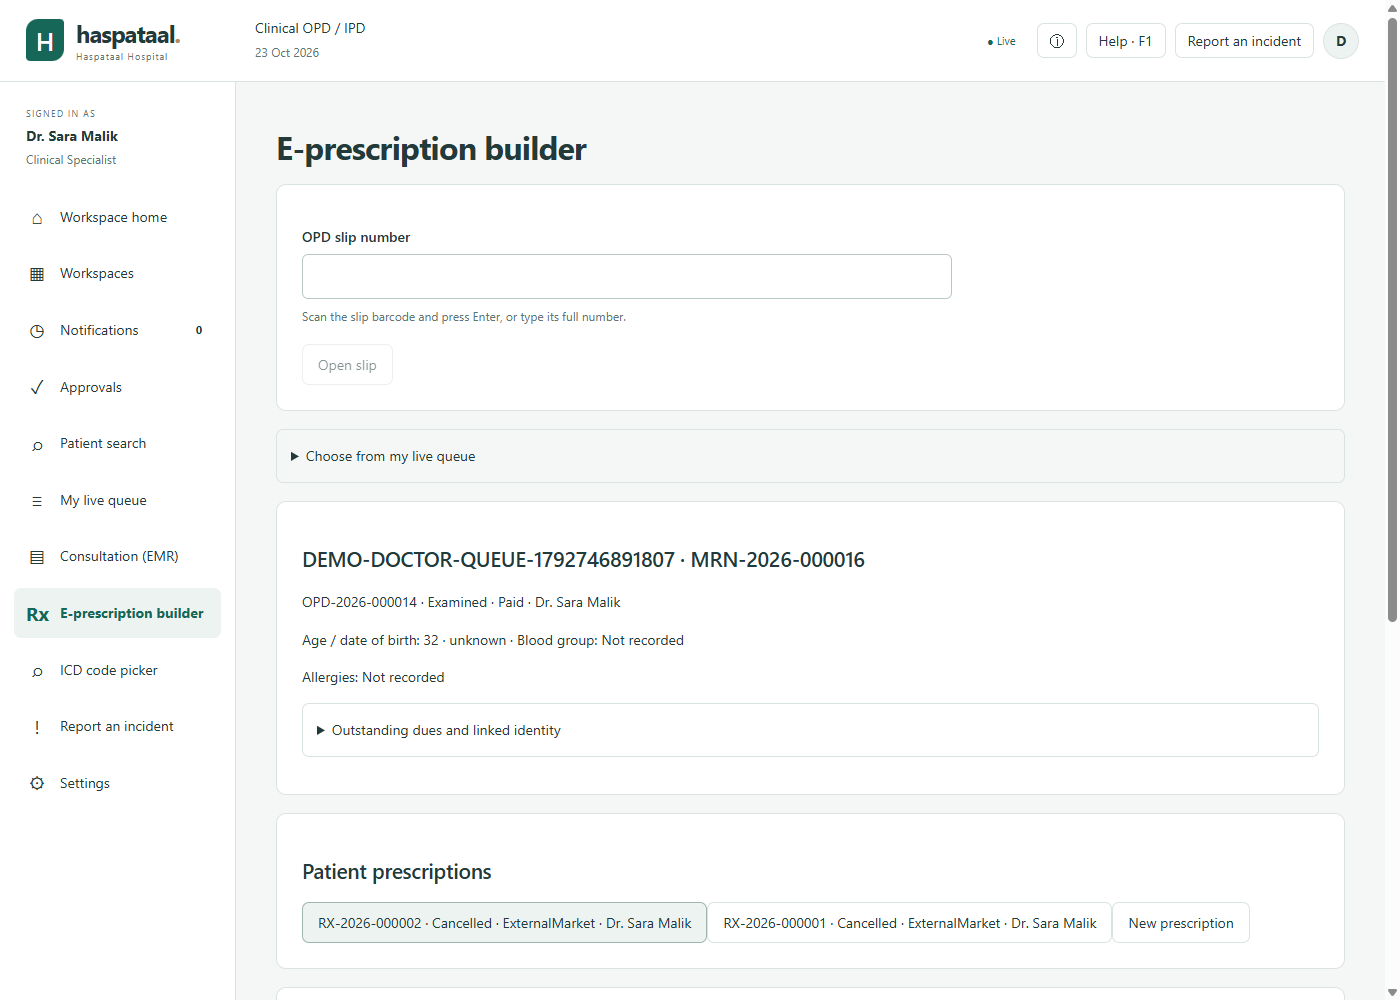
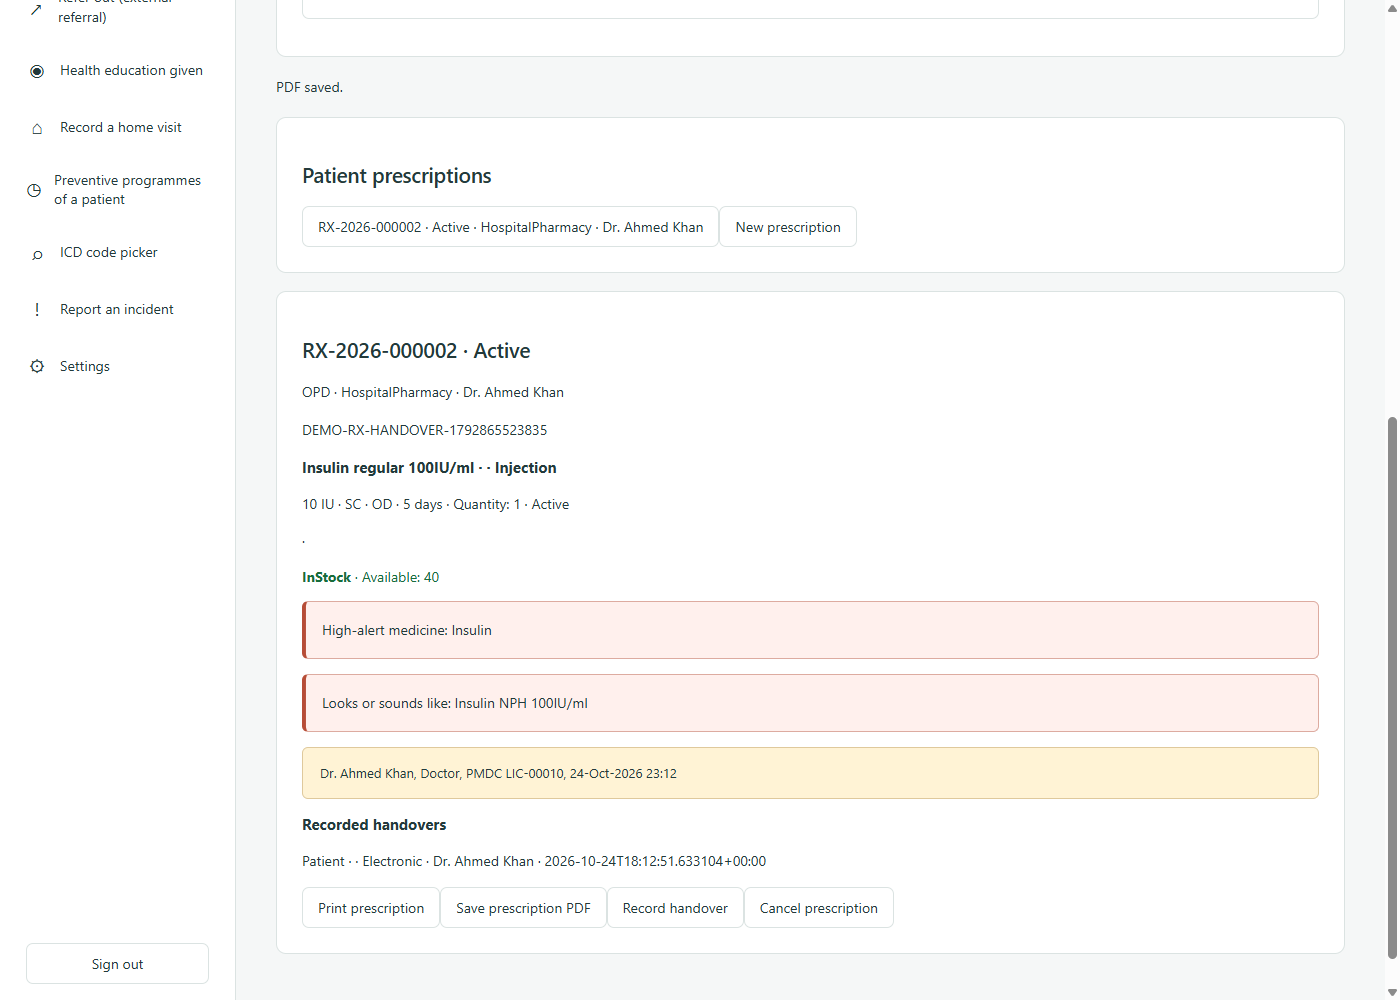
test: verify eprescription outpatient directions, safety warnings and actual handover

diff --git a/handoff.md b/handoff.md
@@ -61,3 +61,21 @@ Pending command node scripts/phase2-clinical-refund-check.mjs: one NEW refund of
 Clinicalrefund harness stopped on expectedordinaryAccountantGET403 (it assumed readablecan_decidefalse). Actualapproval5iselevated/Ownereligible; refund request confirmed once, no approval/cashout yet. Owneduser42/terminal10/shift10 retainedOpenvirtualfloat1500; zero-close correctlyrefused, ownedaccount/terminaldeactivated. No uncertainwrite. Correct harness to acceptactual403 denied-detail; --resume verifies/reactivatesownedfixtures and skips originalrefundrequest/open. Pending node scripts/phase2-clinical-refund-check.mjs --resume. Do not repeat request5.
 Clinicalrefund partialcheckpoint: patient13/ticket2 nowRefunded/clinicalLocked, originalrequest5 elevated(requiredpermissionapproval.refund_elevated.approve)/Ownerapproved; AccountantdetailGET403correct. Doctoractualevent237/verbatim Refund approved banner/disabledediting; actualnewnotePOSTCLINICAL_LOCKOUT/no note. CashbackpromptRefund2amount1500 PENDING, not uncertain; never repeat request5/approval. Ownshift10 opening1500 butbackendexpected0/by_type[]; initialcleanupcloseddeclared0 beforeapproval so currentcashbackcorrectlydisabled(noopenownshift). This is not a cashoutfailure/backendoutage; backendnonzerofloat contract needsclarification; preparingseparate report. User42/terminal10inactive, appsclosed, no commands. Evidence docs/clinical-refund-checkpoint-2026-10-24.json. Do not fabricatebalancingwrites or changeUIbalanceformula.
 Backendreport19CONFIRMEDsaved New/High ContractMismatch at17:44:53UTC: openingfloat1500 returns expected0 beforemovements, closed0/by_type[]; asks fixor explicitnetfloat/countingcontract (not asserting undocumentedformula). Actualoriginal201request5be534bbae31490b8f1d0d1102211867 andimmutableShift10read receipt4b7fae7699f04ea69ed2ec882bc11d86 in docs/nonzero-opening-float-evidence/report*.json. No UIbalanceworkaround, no realfunds, no repeatopen/close. Clinicalrefund partialtests ready; cashbackRefund2ticket2amount1500 remainsPENDING until properly reconciled open-drawer workflow afterbackendanswer. Never replay approvedrequest5.
+
+## Active continuation — E-Prescription handover and outpatient rules (24 October 2026 Antigravity, Asia/Karachi)
+Baseline clean 9f3aa9e. Build PASS (index-Cd4gDgdp.js) and 76 unit tests PASS. Proposals 109, 120, 121, 122, 123, 124, 125, 126 were pending. Backend issue #19 remains Open/New (awaiting backend clarification).
+
+Screen 24 (`eprescription`) Outpatient Handover check PASS:
+- `node scripts/eprescription-handover-check.mjs --resume` real DEV Electron check PASS.
+- Synthetic fixture: Patient 16 (`DEMO-AR-EMERGENCY-1792861877963`, MRN `MRN-2026-000012`), ticket 5 (`OPD-2026-000005`), Dr. Ahmed Khan (`demo.doctor`), linked Final consultation encounter 4.
+- Outpatient line validation (`rule:116b498e61`): dose, route, frequency, and whole-day duration enforced; missing duration blocked before POST.
+- High-Alert / LASA safety warnings (`rule:5a13c8d3a4`): Insulin regular 100IU/ml search displays High-Alert banner and LASA warning; submission blocked until explicit safety checkbox is checked.
+- Capability gating (`rule:a0b954034e`, `rule:72ad58bc73`): HospitalPharmacy destination enabled via active dispensing capability.
+- Lost 201 safe write replay (`q:writes`): double-click single POST, identical key/body retry returns SAME prescription 2 (`RX-2026-000002`) with `replay: true`.
+- Standard prescription print-payload (`rule:7874298bee`): links encounter 4, particulars, directions in words ('10 IU SC OD for 5 days'), Dr. Ahmed Khan author stamp with PMDC registration, and signature line. Native PDF saved (`%PDF-`).
+- Actual handover (`ep:POST /prescriptions/{prescription_id}/handover`): unconfirmed submission blocked before write; confirmed handover (`handed_to: "Patient"`, `copy_kept: "Electronic"`) succeeded with 201 Created and updated `handovers` list.
+- Contextual F1 help & bounded zoom (`q:f1_help`): F1 preserves draft and focus; EN/UR layouts verified at 250% zoom without overflow.
+- Preferences restored and signed out cleanly.
+- Durable evidence: `docs/eprescription-handover-evidence-2026-10-24.json`.
+- Proposal #127 submitted and verified Pending: **awaiting human review on /docs -> My progress**. Items claimed: `ep:POST /prescriptions/{prescription_id}/handover`, `rule:7874298bee`, `rule:116b498e61`, `rule:5a13c8d3a4`, `rule:a0b954034e`, `rule:72ad58bc73`, `q:writes`, `q:f1_help`.
+- Next concrete action: Continue remaining Phase 2 screens in dependency order. Next screen: `tariff_display` (Screen 20) or `icd_picker` (Screen 22) quality gates (bounded zoom 100–250%, states, role FAQ, permissions) or `queue_management` remaining rules/events. No running commands or uncertain writes.

diff --git a/docs/PHASE2_REVIEW_STATUS_2026-10-24.md b/docs/PHASE2_REVIEW_STATUS_2026-10-24.md
@@ -28,7 +28,7 @@ Current source: e5dd135, renderer index-Cd4gDgdp.js. Build/help coverage and **7
 | Doctor queue | Actual arrival/call; reason required, live top/highlighted handover and restore | Remaining reconnect/refusal variants and human workflow |
 | ICD picker | Real catalogue/code-only storage, diagnosis title readback | Full current catalogue/version/refusal plan and human terminology review |
 | Consultation | Server-selected Clinic guidance; consent switches, Final VCO/Declined, lost201 retry, VCO PDF | Actual Clinic422 on controlled Clinic setup, procedure gates and remaining events |
-| E-prescription | Linked encounter, complete OPD directions, empty handover blocked | Actual handover, remaining safety/service/refusal branches and physical print |
+| E-prescription | Linked encounter, complete OPD directions, empty handover blocked; fresh High-Alert/LASA warnings, lost201 same-key replay, standard print payload, and actual handover (POST /prescriptions/{id}/handover) PASS | Inpatient MAR generation, physical slip printing, remaining safety/service/refusal branches and human review |
 | Lab & imaging | Own unsampled200; other-doctor403; sampled409; prohibited actions hidden | Imaging and remaining event/service branches |
 | External referral | Lost-create replay; lost-cancel original read; fixed stale detail refresh; real PDF | Actual receiving acknowledgement; contact-list branch and remaining negative cases |
 | Referral register | Read-only role navigation/filter/detail implementation | Fresh cancellation/filter review in Quality and remaining plan |
@@ -51,7 +51,7 @@ Original keys/receipts and failed-test limitations are in the dated evidence fil
 
 ## Progress review
 
-110–119 accepted at this continuation start. New120 Registration,121 Post-consult waiver,122 Waiver cash-back,123 Lab cancellation,124 Doctor re-route,125 Consultation and126 Upload recovery are **awaiting human review on /docs -> My progress**, together with109 Cash shift. Only tested new items were proposed; full-plan and human gates were not claimed. Check live feedback before any further proposal.
+110–119 accepted at this continuation start. New 120 Registration, 121 Post-consult waiver, 122 Waiver cash-back, 123 Lab cancellation, 124 Doctor re-route, 125 Consultation, 126 Upload recovery, and 127 E-Prescription handover are **awaiting human review on /docs -> My progress**, together with 109 Cash shift. Only tested new items were proposed; full-plan and human gates were not claimed. Check live feedback before any further proposal.
 
 ## New synthetic records from this continuation
 
